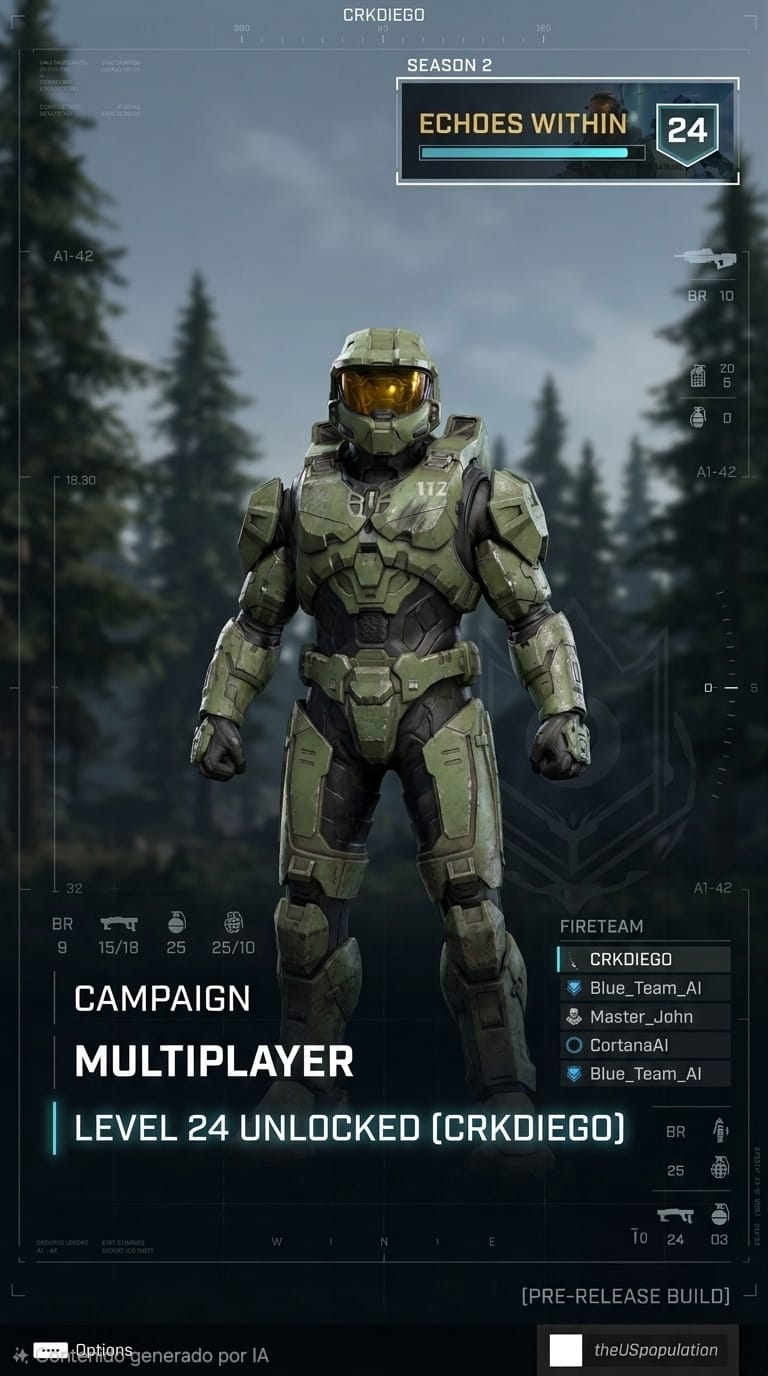
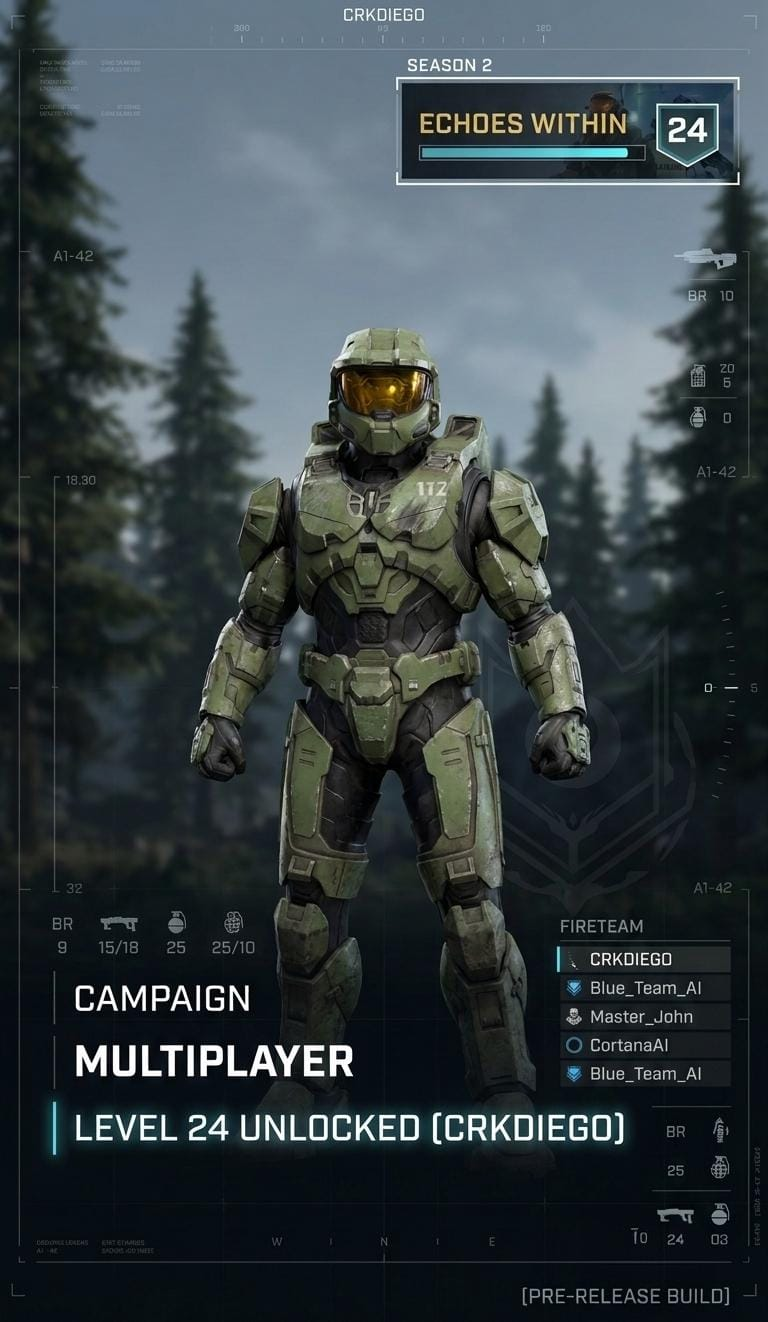
Add files via upload

diff --git a/index.html b/index.html
@@ -368,7 +368,7 @@
   }
   .panel-imagen img{
     width:100%; height:100%;
-    object-fit: cover;
+    object-fit: contain;
     display:block;
   }
   .panel-imagen .marcador{
@@ -525,6 +525,7 @@ const CONFIG = {
       hora: 0, minuto: 0,
       titulo: "Transmisión I",
       imagen: "imagen-1.jpeg",
+      ancho: 768, alto: 1322,
       tituloAlerta: "⚠ SYSTEM BOOT // LEVEL 24 ⚠",
       descripcion: "Spartan CRKDIEGO, tu misión de hoy acaba de comenzar.\nMantente atento."
     },
@@ -532,6 +533,7 @@ const CONFIG = {
       hora: 16, minuto: 30,
       titulo: "Transmisión II",
       imagen: "imagen-2.jpeg",
+      ancho: 911, alto: 1599,
       tituloAlerta: "⚠ NEW ITEMS DETECTED ⚠",
       descripcion: "Parece que algunos suministros decidieron adelantarse a la misión."
     },
@@ -539,6 +541,7 @@ const CONFIG = {
       hora: 20, minuto: 0,
       titulo: "Transmisión III",
       imagen: "imagen-3.jpeg",
+      ancho: 768, alto: 1376,
       tituloAlerta: "⚠ NAVIGATION DATA RECEIVED ⚠",
       descripcion: "Coordenadas de destino desbloqueadas.\nIntroduce las coordenadas en tu navegador y sigue la ruta hasta el punto de reabastecimiento.\nCOORDINATES: XX.XXXX"
     },
@@ -546,6 +549,7 @@ const CONFIG = {
       hora: 21, minuto: 0,
       titulo: "Transmisión IV",
       imagen: "imagen-4.jpeg",
+      ancho: 768, alto: 1316,
       tituloAlerta: "⚠ CLASSIFIED CONTENT ⚠",
       descripcion: "No todas las recompensas aparecen en el menú principal."
     },
@@ -553,6 +557,7 @@ const CONFIG = {
       hora: 22, minuto: 0,
       titulo: "Transmisión V",
       imagen: "imagen-5.jpeg",
+      ancho: 893, alto: 1600,
       tituloAlerta: "⚠ FINAL REWARD UNLOCKED ⚠",
       descripcion: "Una nueva campaña te espera, Spartan.\nQue disfrutes la aventura. 🎮\n¡Feliz cumpleaños, Spartan!"
     }
@@ -682,6 +687,10 @@ function construirNav(indiceMostrado){
 
 function mostrarPanel(i){
   const t = CONFIG.transmisiones[i];
+
+  if (t.ancho && t.alto){
+    panelImagenWrap.style.aspectRatio = t.ancho + " / " + t.alto;
+  }
 
   panelImagenWrap.querySelectorAll("img, .placeholder-imagen").forEach(el => el.remove());
 
